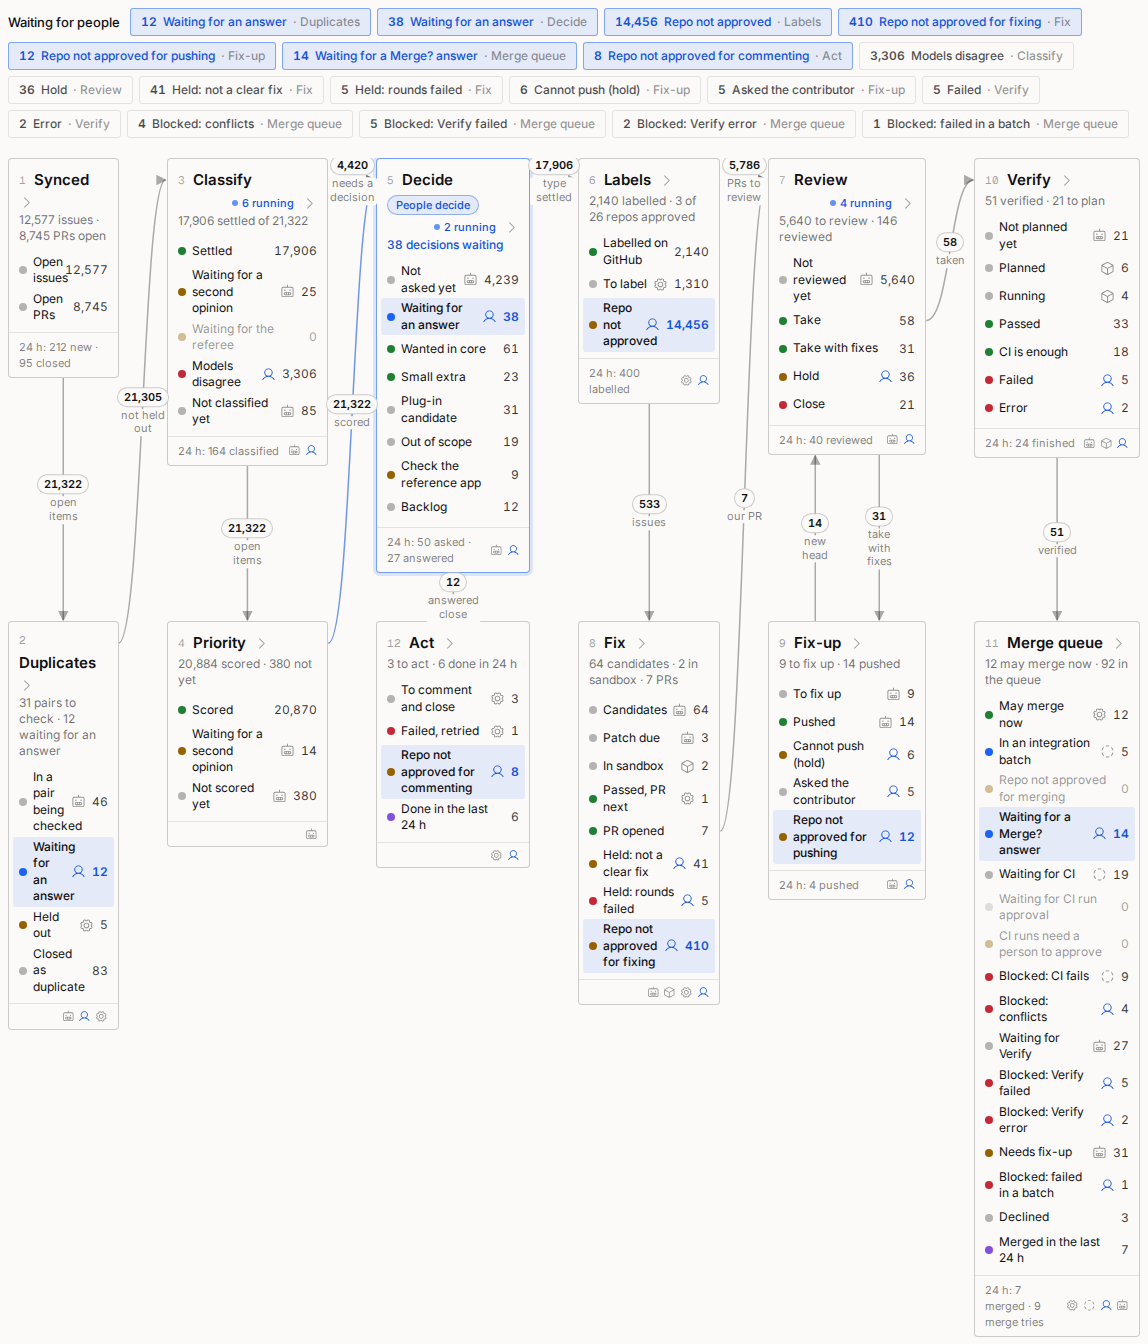
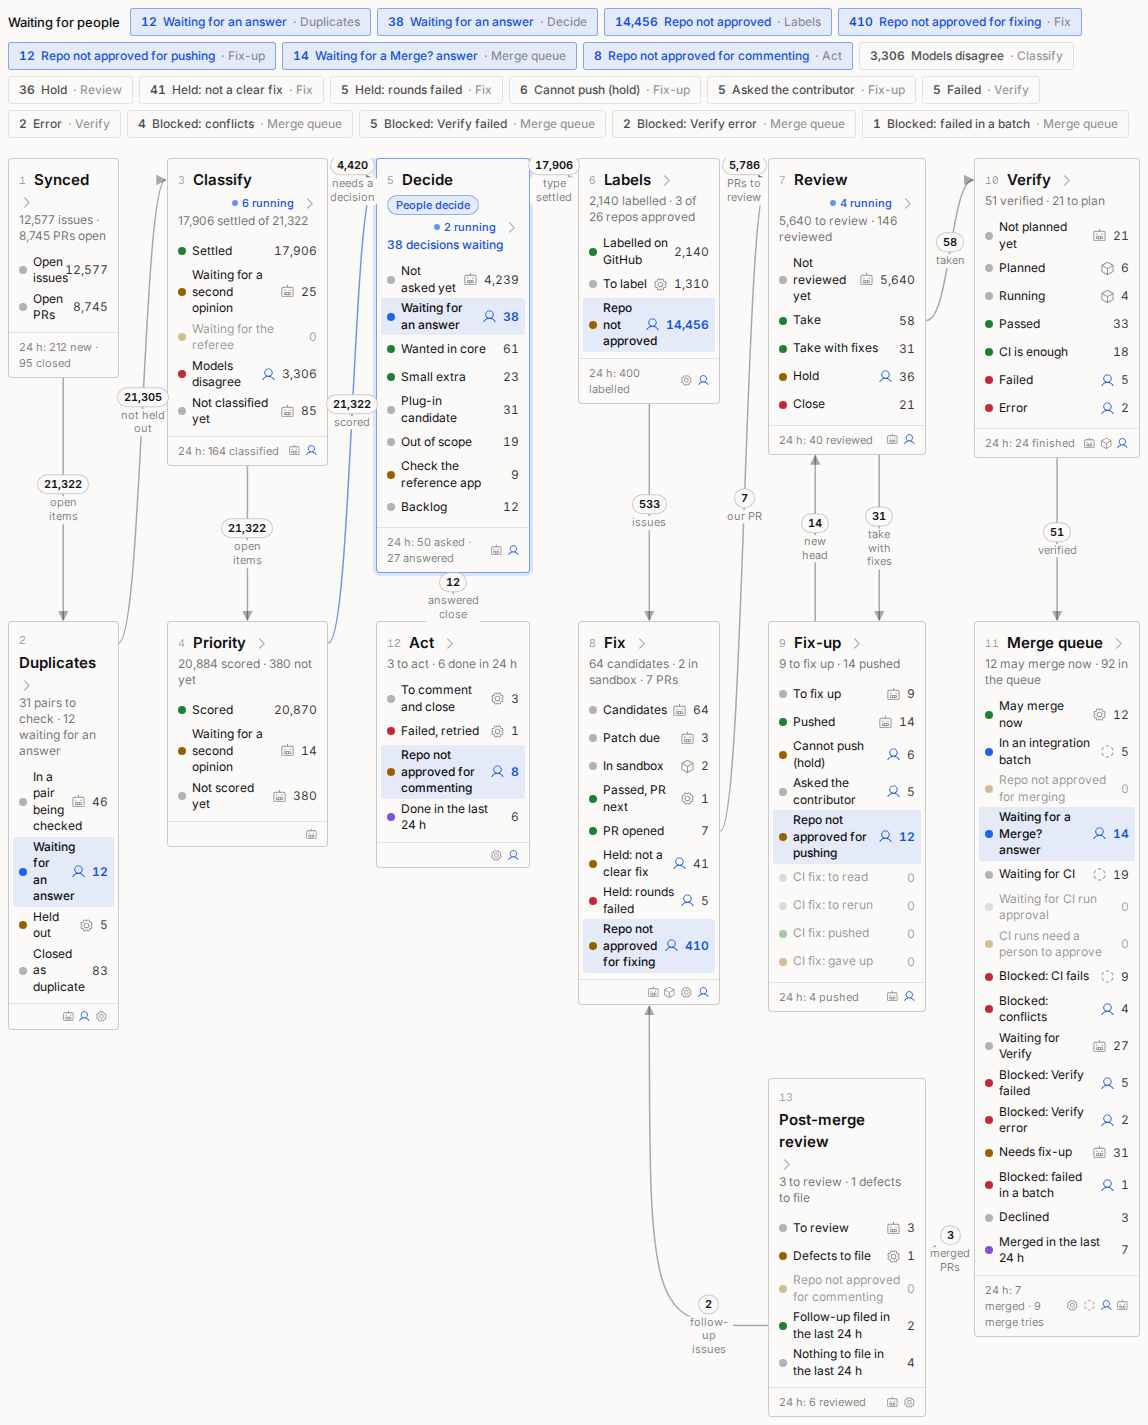
Flowchart: Post-merge review under Fix-up so the chart keeps six columns; regenerate the README image

diff --git a/web/src/modules/flow/Chart.tsx b/web/src/modules/flow/Chart.tsx
@@ -1,6 +1,6 @@
 // The desktop flowchart: nodes on a grid, the main line left to right along the
 // top row (Synced to Merge queue), the side stages below it (Duplicates, Priority,
-// Act, Fix, Fix-up), edges drawn over the grid from the measured positions of the
+// Act, Fix, Fix-up, Post-merge review), edges drawn over the grid from the measured positions of the
 // nodes and their branch rows. The columns shrink with the window down to a floor,
 // so the whole flow fits on a laptop screen without scrolling sideways.
 import { useLayoutEffect, useRef, useState } from "react";
@@ -14,7 +14,7 @@ import { BranchRow, recentText, RunningMarker, WaitIcon } from "./parts";
 /** Grid cell of each node: [column, row, row span]. */
 const CELL: Record<FlowNode["id"], [number, number, number]> = {
   synced: [1, 1, 1], dupes: [1, 2, 1], classify: [2, 1, 1], priority: [2, 2, 1], decide: [3, 1, 1], act: [3, 2, 1],
-  labels: [4, 1, 1], fix: [4, 2, 1], review: [5, 1, 1], fixup: [5, 2, 1], verify: [6, 1, 1], merge: [6, 2, 1], postmerge: [7, 1, 1],
+  labels: [4, 1, 1], fix: [4, 2, 1], review: [5, 1, 1], fixup: [5, 2, 1], verify: [6, 1, 1], merge: [6, 2, 2], postmerge: [5, 3, 1],
 };
 
 export function NodeCard({ n, selected, onSelect, runs }: { n: FlowNode; selected: boolean; onSelect: () => void; runs: AgentRun[] }) {
@@ -84,6 +84,17 @@ function geometry(el: HTMLElement, edges: FlowEdge[]): Geo[] {
       const ex = t.l, ey = t.t + HEAD;
       const dx = Math.max(20, (ex - sx) / 2);
       out.push({ e, d: `M${sx},${sy} C${sx + dx},${sy} ${ex - dx},${ey} ${ex - 1},${ey}`, x: (sx + ex) / 2, y: (sy + ey) / 2 });
+    } else if (t.r <= s.l + 2) {
+      // to the left: out of the branch row into the target's right edge, or up into its lower edge when it ends higher
+      const sx = s.l, sy = a ? (a.t + a.b) / 2 : s.t + HEAD;
+      if (t.b < sy - 20) {
+        const ex = (t.l + t.r) / 2, ey = t.b;
+        out.push({ e, d: `M${sx},${sy} C${ex},${sy} ${ex},${sy} ${ex},${ey + 1}`, x: (sx + ex) / 2, y: sy });
+      } else {
+        const ex = t.r, ey = Math.min(Math.max(sy, t.t + HEAD), t.b - 12);
+        const dx = Math.max(20, (sx - ex) / 2);
+        out.push({ e, d: `M${sx},${sy} C${sx - dx},${sy} ${ex + dx},${ey} ${ex + 1},${ey}`, x: (sx + ex) / 2, y: (sy + ey) / 2 });
+      }
     } else {
       // above or below: from the facing edge's middle to the other's
       const down = t.t >= s.b;
@@ -116,8 +127,8 @@ export function Chart({ flow, selected, onSelect, runs }: { flow: Flow; selected
     <div className="overflow-x-auto pb-2">
       <div
         ref={ref}
-        className="relative grid min-w-[1240px] items-start gap-x-12 gap-y-12"
-        style={{ gridTemplateColumns: "minmax(0,140fr) minmax(0,205fr) minmax(0,195fr) minmax(0,180fr) minmax(0,200fr) minmax(0,210fr) minmax(0,200fr)" }}
+        className="relative grid min-w-[1040px] items-start gap-x-12 gap-y-12"
+        style={{ gridTemplateColumns: "minmax(0,140fr) minmax(0,205fr) minmax(0,195fr) minmax(0,180fr) minmax(0,200fr) minmax(0,210fr)" }}
       >
         {flow.nodes.map((n) => {
           const [c, r, span] = CELL[n.id];
